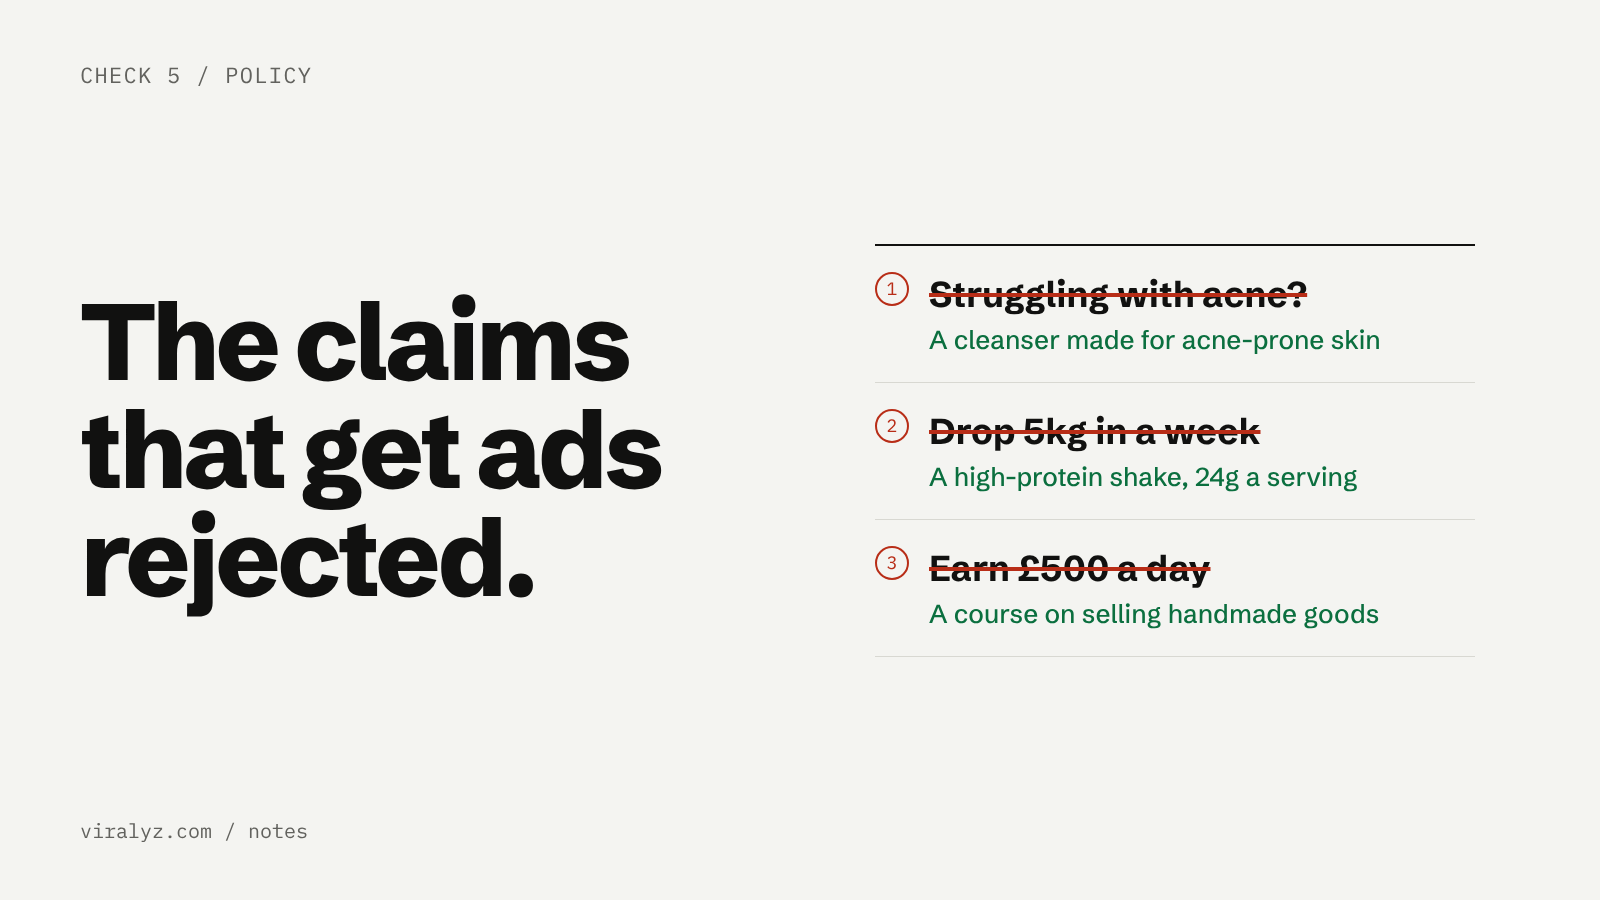
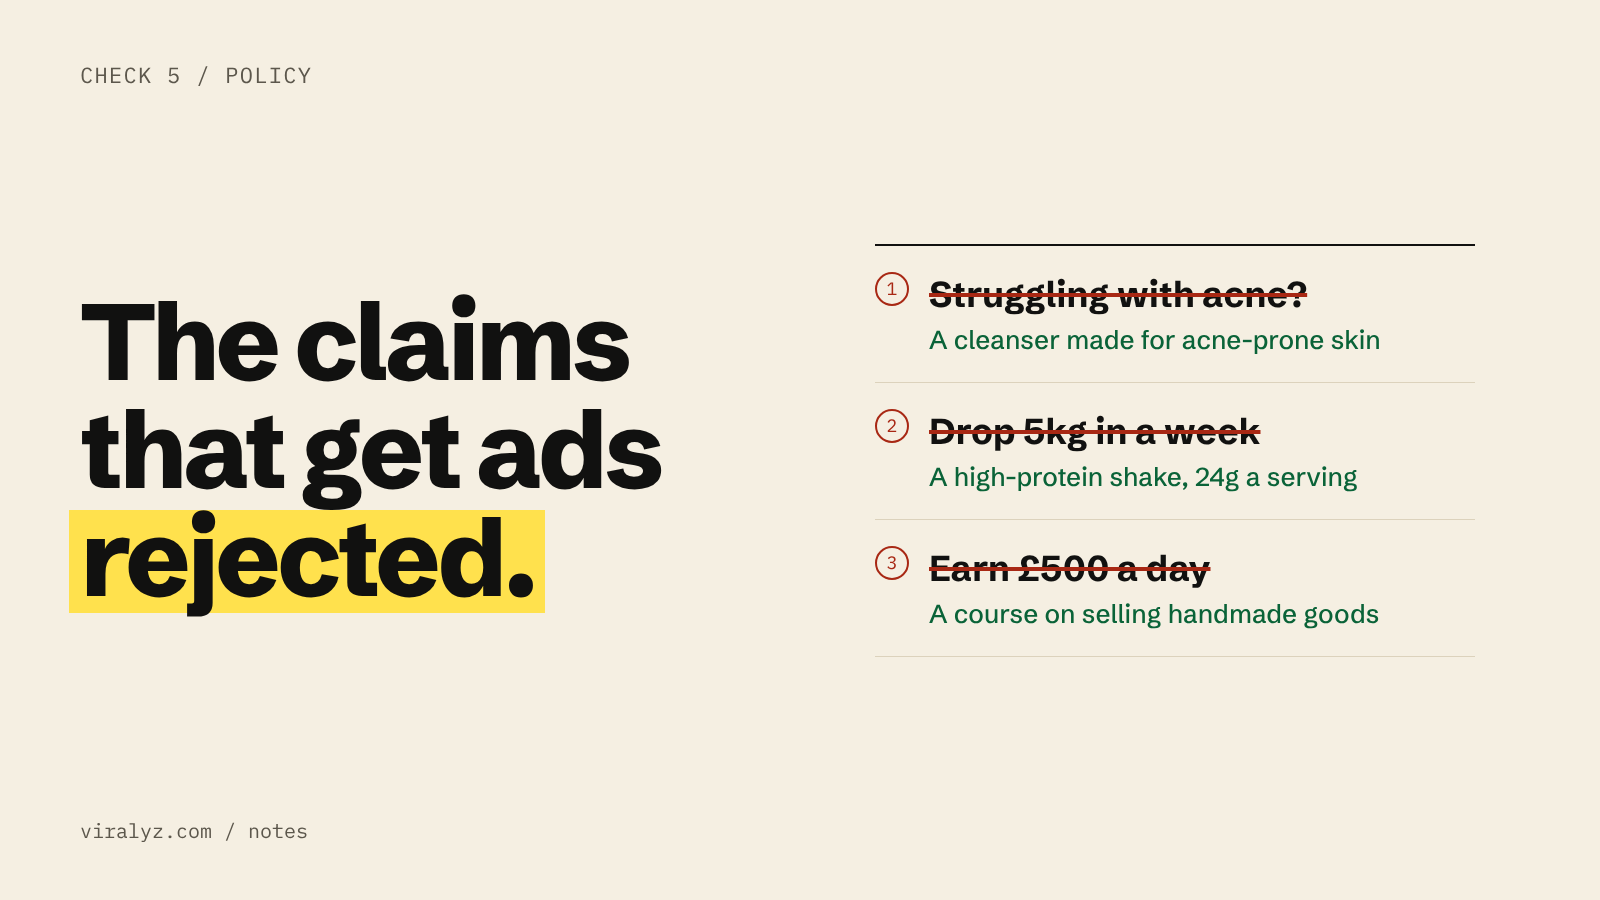
Add colour: warm paper, a yellow highlighter and violet for actions
- Violet is the action colour: primary buttons, eyebrows, article links, the closing bands
- A yellow highlighter stroke sits behind a few key words and the current nav item
- The paper is warmer, with a pale green wash on alternate bands
- Red, blue and green keep their meanings; violet and yellow never describe an ad
- Screenshots, note covers and the share image redrawn to match

Claude-Session: https://claude.ai/code/session_01MjxMnLZ6sAhgbh5ATRoFLq

Changed region(s): [[0.0312, 0.56, 0.3438, 0.6844]]

diff --git a/apps/web/styles/tokens.css b/apps/web/styles/tokens.css
@@ -6,39 +6,51 @@
  * Light is the default. Dark is set by data-theme="dark" on <html>; "Match
  * device" resolves to one of the two through next-themes.
  *
- * Colour rules: the interface is paper and ink. Three colours carry meaning
- * and nothing else is coloured:
+ * Colour rules: warm paper and ink. Three colours carry meaning:
  *   --vz-mark  (red)   what must change, and destructive actions
  *   --vz-guide (blue)  guides that never print: safe zones, skeletons, focus
  *   --vz-pass  (green) cleared, and the tick in the logo
+ * Three more are the brand's own and never say anything about an ad:
+ *   --vz-brand  (violet) the action colour: primary buttons, links, the closing bands
+ *   --vz-accent (yellow) a highlighter stroke behind a few key words
+ *   --vz-tint   (pale green) a wash behind alternate bands
+ * Violet is kept away from check results so it is never read as a status.
  * --vz-warn and --vz-fail both resolve to the mark colour; the component,
  * not the hue, says whether an ad is "to fix" or "blocked".
  */
 
 :root {
-  --vz-bg: #f4f4f1;
-  --vz-panel: #eaeae5;
-  --vz-card: #ffffff;
-  --vz-line: #d8d8d2;
+  --vz-bg: #f5efe2;
+  --vz-panel: #ebe2cf;
+  --vz-card: #fffdf8;
+  --vz-line: #dcd2bc;
   --vz-rule: #111110;
   --vz-ink: #111110;
   --vz-ink-2: #3b3b38;
-  --vz-muted: #62625e;
-  --vz-btn: #111110;
-  --vz-btn-ink: #f4f4f1;
-  --vz-inv: #111110;
-  --vz-inv-ink: #f4f4f1;
-  --vz-inv-muted: #9a9a94;
-  --vz-inv-line: rgb(244 244 241 / 0.2);
-  --vz-inv-raised: rgb(244 244 241 / 0.06);
+  --vz-muted: #5c574c;
+  /* Violet: the one colour that means "do this". */
+  --vz-brand: #5b34f2;
+  --vz-brand-ink: #ffffff;
+  --vz-btn: var(--vz-brand);
+  --vz-btn-ink: var(--vz-brand-ink);
+  --vz-inv: #3f22bf;
+  --vz-inv-ink: #f5efe2;
+  --vz-inv-muted: #cfc6ff;
+  --vz-inv-line: rgb(245 239 226 / 0.22);
+  --vz-inv-raised: rgb(245 239 226 / 0.07);
   /* Retired dot texture: transparent so older markup draws nothing. */
   --vz-dot: transparent;
   --vz-scrim: rgb(17 17 16 / 0.45);
-  --vz-pass: #0b6f3f;
-  --vz-pass-bg: rgb(11 111 63 / 0.08);
-  --vz-mark: #b82d17;
-  --vz-mark-bg: rgb(184 45 23 / 0.07);
-  --vz-guide: #2462c4;
+  --vz-pass: #0a6338;
+  --vz-pass-bg: rgb(10 99 56 / 0.09);
+  --vz-mark: #a82814;
+  --vz-mark-bg: rgb(168 40 20 / 0.07);
+  --vz-guide: #1f57b0;
+  /* Highlighter: emphasis only. Text on it is always ink. Never a status. */
+  --vz-accent: #ffe14d;
+  --vz-accent-ink: #111110;
+  /* A soft green wash for alternate bands. Decoration, not "cleared". */
+  --vz-tint: #e3ebdd;
   --vz-warn: var(--vz-mark);
   --vz-warn-bg: var(--vz-mark-bg);
   --vz-fail: var(--vz-mark);
@@ -63,49 +75,55 @@
 
 @media (prefers-color-scheme: dark) {
   :root:not([data-theme="light"]):not([data-theme="dark"]) {
-    --vz-bg: #141413;
-    --vz-panel: #232321;
-    --vz-card: #1e1e1c;
-    --vz-line: #35352f;
+    --vz-bg: #151410;
+    --vz-panel: #24231d;
+    --vz-card: #1f1e19;
+    --vz-line: #37352c;
     --vz-rule: #edede8;
     --vz-ink: #edede8;
     --vz-ink-2: #c4c4be;
     --vz-muted: #9a9a94;
-    --vz-btn: #edede8;
-    --vz-btn-ink: #141413;
-    --vz-inv: #1e1e1c;
+    --vz-brand: #a898ff;
+    --vz-brand-ink: #141413;
+    --vz-btn: var(--vz-brand);
+    --vz-btn-ink: var(--vz-brand-ink);
+    --vz-inv: #2a1c6e;
     --vz-inv-ink: #edede8;
-    --vz-inv-muted: #9a9a94;
+    --vz-inv-muted: #b9b0e8;
     --vz-scrim: rgb(0 0 0 / 0.6);
     --vz-pass: #4cd08a;
     --vz-pass-bg: rgb(76 208 138 / 0.11);
     --vz-mark: #ff6a4d;
     --vz-mark-bg: rgb(255 106 77 / 0.11);
     --vz-guide: #7db8ff;
+  --vz-tint: #1a211c;
     color-scheme: dark;
   }
 }
 
 :root[data-theme="dark"] {
-  --vz-bg: #141413;
-  --vz-panel: #232321;
-  --vz-card: #1e1e1c;
-  --vz-line: #35352f;
+  --vz-bg: #151410;
+  --vz-panel: #24231d;
+  --vz-card: #1f1e19;
+  --vz-line: #37352c;
   --vz-rule: #edede8;
   --vz-ink: #edede8;
   --vz-ink-2: #c4c4be;
   --vz-muted: #9a9a94;
-  --vz-btn: #edede8;
-  --vz-btn-ink: #141413;
-  --vz-inv: #1e1e1c;
+  --vz-brand: #a898ff;
+  --vz-brand-ink: #141413;
+  --vz-btn: var(--vz-brand);
+  --vz-btn-ink: var(--vz-brand-ink);
+  --vz-inv: #2a1c6e;
   --vz-inv-ink: #edede8;
-  --vz-inv-muted: #9a9a94;
+  --vz-inv-muted: #b9b0e8;
   --vz-scrim: rgb(0 0 0 / 0.6);
   --vz-pass: #4cd08a;
   --vz-pass-bg: rgb(76 208 138 / 0.11);
   --vz-mark: #ff6a4d;
   --vz-mark-bg: rgb(255 106 77 / 0.11);
   --vz-guide: #7db8ff;
+  --vz-tint: #1a211c;
   color-scheme: dark;
 }
 

diff --git a/apps/web/app/page.tsx b/apps/web/app/page.tsx
@@ -127,7 +127,7 @@ export default async function HomePage() {
         <div className="min-w-0">
           <p className="kicker m-0">Ad creative for Meta and TikTok, checked before you spend</p>
           <h1 className="m-0 mt-4 font-display text-[clamp(42px,5.4vw,72px)]">
-            Make the ad. Mark it up. Then spend on it.
+            Make the ad. <span className="hl">Mark it up.</span> Then spend on it.
           </h1>
           <p className="m-0 mt-6 max-w-[540px] text-[19px] text-ink-2">
             Viralyz makes on-brand ads for every placement and measures each
@@ -154,7 +154,7 @@ export default async function HomePage() {
             />
             <button
               type="submit"
-              className="min-h-13 flex-none cursor-pointer rounded-inner border border-btn bg-btn px-[22px] text-[15px] font-semibold text-btn-ink hover:opacity-85"
+              className="min-h-13 flex-none cursor-pointer rounded-inner border border-btn bg-btn px-[22px] text-[15px] font-semibold text-btn-ink shadow-[5px_5px_0_var(--vz-accent)] hover:opacity-85"
             >
               Make and check
             </button>
@@ -166,11 +166,12 @@ export default async function HomePage() {
         <ProofDemo />
       </Container>
 
-      {/* A batch, as a contact sheet */}
-      <Container className="pb-20">
+      {/* A batch, as a contact sheet, on the tinted band */}
+      <div className="border-y border-line bg-tint">
+      <Container className="py-16">
         <SectionHeader
           eyebrow="One batch"
-          title="Every placement, each with its verdict"
+          title={<>Every placement, each with <span className="hl">its verdict</span></>}
           lede="A batch comes back as a contact sheet. Green is cleared. Red says what to change. Nothing is hidden behind a score."
         />
         <div className="grid grid-cols-2 items-end gap-x-4 gap-y-6 sm:grid-cols-3 lg:grid-cols-5">
@@ -195,12 +196,13 @@ export default async function HomePage() {
           {placements.join(", ")}.
         </p>
       </Container>
+      </div>
 
       {/* How it works */}
-      <Container className="pb-20">
+      <Container className="py-20">
         <SectionHeader
           eyebrow="How it works"
-          title="Five steps, and the check sits in the middle"
+          title={<>Five steps, and the check sits <span className="hl">in the middle</span></>}
           lede="Between making the ad and paying for it. That is the step other tools skip."
         />
         <div className="grid grid-cols-1 gap-x-8 md:grid-cols-[200px_1fr]">
@@ -233,7 +235,7 @@ export default async function HomePage() {
       <InversePanel className="flex flex-wrap items-center gap-12">
         <div className="flex min-w-0 flex-[1_1_380px] flex-col gap-[18px]">
           <Eyebrow tone="inverse">Results</Eyebrow>
-          <h2 className="m-0 font-display text-[clamp(34px,4.6vw,56px)]">
+          <h2 className="m-0 font-display text-[clamp(34px,4.6vw,56px)] text-accent">
             No chart until there’s data to draw it.
           </h2>
           <p className="m-0 text-inv-muted">

diff --git a/apps/web/app/globals.css b/apps/web/app/globals.css
@@ -15,6 +15,11 @@
   --color-mark: var(--vz-mark);
   --color-mark-bg: var(--vz-mark-bg);
   --color-guide: var(--vz-guide);
+  --color-brand: var(--vz-brand);
+  --color-brand-ink: var(--vz-brand-ink);
+  --color-accent: var(--vz-accent);
+  --color-accent-ink: var(--vz-accent-ink);
+  --color-tint: var(--vz-tint);
   --color-muted: var(--vz-muted);
   --color-btn: var(--vz-btn);
   --color-btn-ink: var(--vz-btn-ink);
@@ -81,6 +86,16 @@
   );
 }
 
+/* A highlighter stroke behind a few words. Emphasis only; the text on it is always ink. */
+@utility hl {
+  background-image: linear-gradient(transparent 14%, var(--vz-accent) 14%, var(--vz-accent) 92%, transparent 92%);
+  color: var(--vz-accent-ink);
+  padding: 0 0.1em;
+  margin: 0 -0.1em;
+  box-decoration-break: clone;
+  -webkit-box-decoration-break: clone;
+}
+
 /* Retired: the dot-grid texture. Kept as a no-op so older markup stays valid. */
 @utility dots {
   background-image: none;
@@ -121,6 +136,11 @@ body {
   input::placeholder,
   textarea::placeholder {
     color: var(--vz-muted);
+  }
+
+  ::selection {
+    background: var(--vz-accent);
+    color: var(--vz-accent-ink);
   }
 
   :focus-visible {
@@ -192,7 +212,7 @@ body {
 }
 
 .prose-vz a {
-  color: var(--vz-ink);
+  color: var(--vz-brand);
   text-decoration: underline;
   text-underline-offset: 3px;
 }

diff --git a/apps/web/app/og/route.tsx b/apps/web/app/og/route.tsx
@@ -35,7 +35,7 @@ export async function GET(req: NextRequest) {
           display: "flex",
           flexDirection: "column",
           justifyContent: "space-between",
-          background: "#F4F4F1",
+          background: "#F5EFE2",
           color: "#111110",
           padding: "64px 72px",
           fontFamily: display ? "Schibsted Grotesk" : "sans-serif",
@@ -53,7 +53,7 @@ export async function GET(req: NextRequest) {
             }}
           >
             <svg width="24" height="24" viewBox="0 0 14 14">
-              <path d="M2 7.5l3.2 3.2L12 3.5" fill="none" stroke="#0B6F3F" strokeWidth="2.4" strokeLinecap="square" />
+              <path d="M2 7.5l3.2 3.2L12 3.5" fill="none" stroke="#0A6338" strokeWidth="2.4" strokeLinecap="square" />
             </svg>
           </div>
           <div style={{ fontSize: 40, fontWeight: 800, letterSpacing: "-0.035em" }}>viralyz</div>
@@ -80,7 +80,7 @@ export async function GET(req: NextRequest) {
               fontSize: 22,
               letterSpacing: "0.06em",
               textTransform: "uppercase",
-              color: "#62625E",
+              color: "#5C574C",
               fontFamily: mono ? "IBM Plex Mono" : "sans-serif",
             }}
           >

diff --git a/apps/web/components/ui/SiteFooter.tsx b/apps/web/components/ui/SiteFooter.tsx
@@ -18,7 +18,8 @@ export function SiteFooter() {
   const [state, action, pending] = useActionState(submitNewsletter, initial);
 
   return (
-    <footer className="mx-auto flex max-w-site flex-col gap-10 border-t border-rule px-[clamp(16px,4vw,40px)] pb-10 pt-12">
+    <footer className="border-t border-rule bg-panel">
+      <div className="mx-auto flex max-w-site flex-col gap-10 px-[clamp(16px,4vw,40px)] pb-10 pt-12">
       <div className="grid grid-cols-[repeat(auto-fit,minmax(160px,1fr))] gap-8 text-[15px]">
         <div className="flex flex-col gap-2 sm:col-span-2 lg:col-span-1">
           <Logo className="self-start" />
@@ -84,6 +85,7 @@ export function SiteFooter() {
         <span>Not affiliated with Meta or TikTok</span>
         <ThemeToggle />
       </div>
+    </div>
     </footer>
   );
 }

diff --git a/apps/web/app/platform/page.tsx b/apps/web/app/platform/page.tsx
@@ -87,7 +87,7 @@ export default async function PlatformPage() {
       <Container className="flex flex-col items-start gap-[22px] pb-12 pt-[clamp(48px,7vw,88px)]">
         <Eyebrow>Platform</Eyebrow>
         <h1 className="m-0 max-w-[1000px] font-display text-[clamp(42px,6.2vw,80px)]">
-          Five steps, and every ad is checked before you see it.
+          Five steps, and every ad is <span className="hl">checked before you see it.</span>
         </h1>
         <p className="m-0 max-w-[600px] text-[19px] text-muted">
           Discover, Brand, Studio, Pre-flight, Results. What you see below is the product, drawn with fictional brands.

diff --git a/apps/web/components/ui/SiteNav.tsx b/apps/web/components/ui/SiteNav.tsx
@@ -41,10 +41,9 @@ export function SiteNav() {
                   aria-current={active ? "page" : undefined}
                   className={cn(
                     "inline-flex min-h-11 items-center hover:text-muted",
-                    active && "font-semibold",
                   )}
                 >
-                  {link.label}
+                  <span className={cn(active && "hl font-semibold")}>{link.label}</span>
                 </Link>
               </li>
             );

diff --git a/apps/web/app/layout.tsx b/apps/web/app/layout.tsx
@@ -28,8 +28,8 @@ export const metadata: Metadata = {
 
 export const viewport: Viewport = {
   themeColor: [
-    { media: "(prefers-color-scheme: light)", color: "#FFFFFF" },
-    { media: "(prefers-color-scheme: dark)", color: "#0A0A0B" },
+    { media: "(prefers-color-scheme: light)", color: "#F5EFE2" },
+    { media: "(prefers-color-scheme: dark)", color: "#151410" },
   ],
   colorScheme: "light dark",
 };

diff --git a/apps/web/components/marketing/final-cta-band.tsx b/apps/web/components/marketing/final-cta-band.tsx
@@ -34,7 +34,7 @@ export function FinalCtaBand({
         )}
       >
         <div>
-        <h2 className="m-0 max-w-[860px] font-display text-[clamp(34px,5vw,64px)] text-balance">
+        <h2 className={cn("m-0 max-w-[860px] font-display text-[clamp(34px,5vw,64px)] text-balance", inverse && "text-accent")}>
           {title}
         </h2>
         {subtitle ? (

diff --git a/apps/web/components/ui/Eyebrow.tsx b/apps/web/components/ui/Eyebrow.tsx
@@ -13,7 +13,7 @@ export function Eyebrow({
     <p
       className={cn(
         "kicker flex w-fit items-center gap-2",
-        tone === "inverse" ? "text-inv-muted" : "",
+        tone === "inverse" ? "text-inv-muted" : "text-brand",
         className,
       )}
       {...props}

diff --git a/apps/web/components/ui/Section.tsx b/apps/web/components/ui/Section.tsx
@@ -17,7 +17,7 @@ export function Section({
       id={id}
       className={cn(
         "py-14 md:py-20",
-        tone === "sunken" && "border-y border-line bg-panel",
+        tone === "sunken" && "border-y border-line bg-tint",
         className,
       )}
       {...props}
